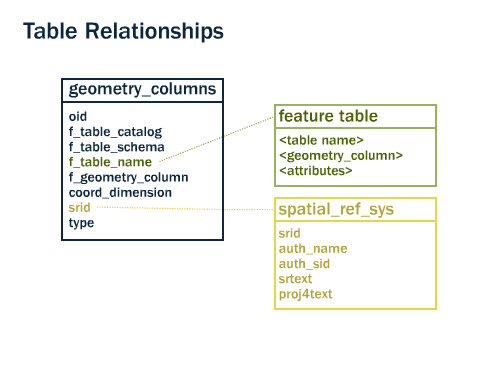
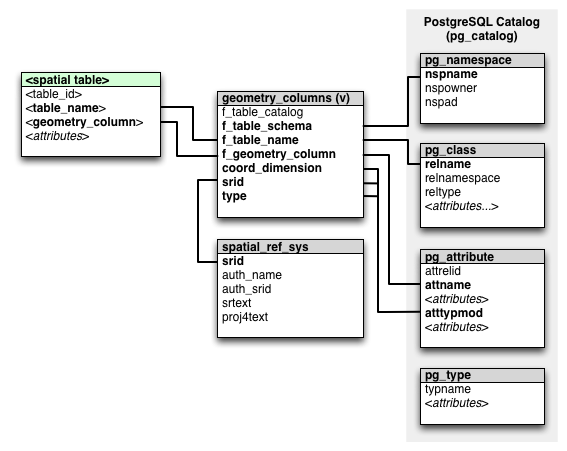
Updates to diags and text (#SUITE-486)

Changed region(s): [[0.03, 0.0293, 0.99, 0.968], [0.03, 0.0587, 0.45, 0.1173]]

diff --git a/docs/usermanual/source/dataadmin/postgis/metatables.rst b/docs/usermanual/source/dataadmin/postgis/metatables.rst
@@ -1,11 +1,11 @@
 .. _dataadmin.postgis.metatables:
 
-Spatial Metadata 
+OpenGIS Metadata 
 ================
 
-In compliance with the Simple Features for SQL (SFSQL) specification, PostGIS stores and manages metadata for all geometry columns present in a database. As a result, client applications are not required to inspect individual spatial tables and their geometries to perform display, projection, or analytical queries.
+In compliance with the OpenGIS Simple Features for SQL (SFSQL) specification, PostGIS stores and manages metadata for all geometry columns present in a database. As a result, client applications are not required to inspect individual spatial tables and their geometries to perform display, projection, or analytical queries.
 
-The metadata is stored in the following PostgreSQL schema objects:
+The metadata are managed by the *postgres* user account and stored in the following PostgreSQL schema objects:
 
 * ``spatial_ref_sys``—Table recording spatial reference systems 
 * ``geometry_columns``—Read-only view listing spatial (or feature) tables, geometry columns and geometry types present in the database
@@ -14,7 +14,8 @@ The metadata is stored in the following PostgreSQL schema objects:
 
    *Spatial metadata schema relationships*
 
-PostGIS 2.0+ (OpenGeo Suite 3.0+) uses a view based on the system catalogs rather than a table to record geometry column metadata.  Because of this, the view is updated automatically when a new spatial table is created, and so is always current.  As a result, a number of the system utility functions, such as ``populate_geometry_columns()``, are no longer required.
+As PostGIS 2.0+ (OpenGeo Suite 3.0+) now uses a view based on the system catalogs rather than a table to record geometry column metadata, the view is always current, updated automatically when a new spatial table is created. 
+Consequently, a number of the system utility functions, such as ``populate_geometry_columns()``, are no longer required.
 
 To query the ``geometry_columns`` view, execute the following SQL command:
 
@@ -32,7 +33,7 @@ The attributes of the ``geometry_columns`` view are:
 * ``f_geometry_column``—Name of the geometry column (for spatial tables with multiple geometry columns, there will be one record for each column)  
 * ``coord_dimension``—Dimension of the geometry (2-, 3- or 4-dimensions) 
 * ``srid``—Spatial reference identifier in the ``spatial_ref_sys`` table  
-* ``type``—Type of geometry (such as ``integer``, ``varchar(30)``, etc.)
+* ``type``—Type of geometry (such as ``point`` or ``linestring``)
 
 Typmods
 -------
@@ -56,7 +57,7 @@ The typmod in this case is the number *255*, indicating the maximum length of va
 Updating spatial tables
 -----------------------
  
-Updating spatial tables in previous versions of PostGIS, such as changing the spatial reference or geometry type, was a multi-step process involving dropping constraints, updating the table, updating the geometry_columns table and re-applying the constraints. With version 2.0+, this can be accomplished with a single ``ALTER TABLE`` command:
+Updating spatial tables in previous versions of PostGIS, such as changing the spatial reference or geometry type, was a multi-step process—dropping constraints, updating the table, updating the geometry_columns table and re-applying the constraints. With version 2.0+, this can be accomplished with a single ``ALTER TABLE`` command. The following example will alter the projection of the data: 
 
 .. code-block:: sql
 
@@ -71,14 +72,14 @@ The ``geometry_columns`` view is updated automatically to reflect the changes.
 Manually registering geometry columns
 -------------------------------------
 
-There may still be occasions when you are required to manually register a geometry column, such as when working with SQL views or bulk data inserts. With PostGIS 2.0+ if the definition of a geometry column is typmod-based, the view or table creation process will automatically register correctly, so no further action is required. However, if a geometry column in an existing view is constraint-based, it will not be registered correctly.
+There may still be occasions when you are required to manually register a geometry column, such as when working with SQL views or bulk data inserts. With PostGIS 2.0+ if the definition of a geometry column is typmod-based, the view or table creation process will automatically register the column correctly, so no further action is required. However, if a geometry column in an existing view is constraint-based, it will not be registered correctly.
 
 For example, if a view is defined as follows:
 
 .. code-block:: sql
 
    CREATE VIEW public.vw_mytable AS
-     SELECT gid, ST_Transform(geom,3395) AS geom, f_name
+     SELECT gid, ST_Transform(geom, 3395) AS geom, f_name
      FROM public.mytable;
 
 Querying the ``geometry_columns`` view will confirm the incorrect registration of the geometry column:
@@ -97,7 +98,7 @@ Querying the ``geometry_columns`` view will confirm the incorrect registration o
    | vw_mytable  | geom              | 0    | GEOMETRY |   
    +-------------+-------------------+------+----------+
 
-To register the geometry column with PostGIS 2.0+, you must convert (cast) the geometry to be typmod-based:
+To register the geometry column with PostGIS 2.0+, you must convert, or cast, the geometry to be typmod-based:
 
 .. code-block:: sql
 
@@ -115,7 +116,7 @@ If the geometry type is known to be a 2D polygon, the view could be redefined as
      SELECT gid, ST_Transform(geom,3395)::geometry(Polygon, 3395) AS geom, f_name
      FROM public.mytable;
 
-Now querying the ``geometry_columns`` view again will show the following:
+Querying the ``geometry_columns`` view again will report the update:
 
 .. code-block:: sql
 
@@ -135,20 +136,20 @@ The geometry column is now correctly registered.
 
 If you wish to add a geometry column to an existing table, the function ``AddGeometryColumn()`` now uses a typmod by default to define the column, rather than constraints.
 
-The ``AddGeometryColumn()`` syntax is::
+``AddGeometryColumn()`` accepts the following parameters::
 
   AddGeometryColumn(varchar table_name, varchar column_name, integer srid, varchar type, integer dimension, boolean use_typmod=true);
 
 .. code-block:: sql
 
-   SELECT AddGeometryColumn('my_schema', 'my_spatial_table', 'geom', 4326, 'POINT', 2);
+   SELECT AddGeometryColumn('my_table', 'geom', 4326, 'POINT', 2);
 
 To add a point using constraint-based behavior, set the ``use_typemod`` value to be ``false``:
 
 .. code-block:: sql
 
-   SELECT AddGeometryColumn('my_schema', 'my_spatial_table', 'geom_c', 4326, 'POINT', 2, false);
+   SELECT AddGeometryColumn('my_table', 'geom', 4326, 'POINT', 2, false);
 
-.. note:: ``AddGeometryColumn()`` no longer updates the ``geometry_columns`` view since the view reads directly from the system catalogs.
+.. note:: ``AddGeometryColumn()`` no longer updates the ``geometry_columns`` view as the view reads directly from the system catalogs.
 
 
